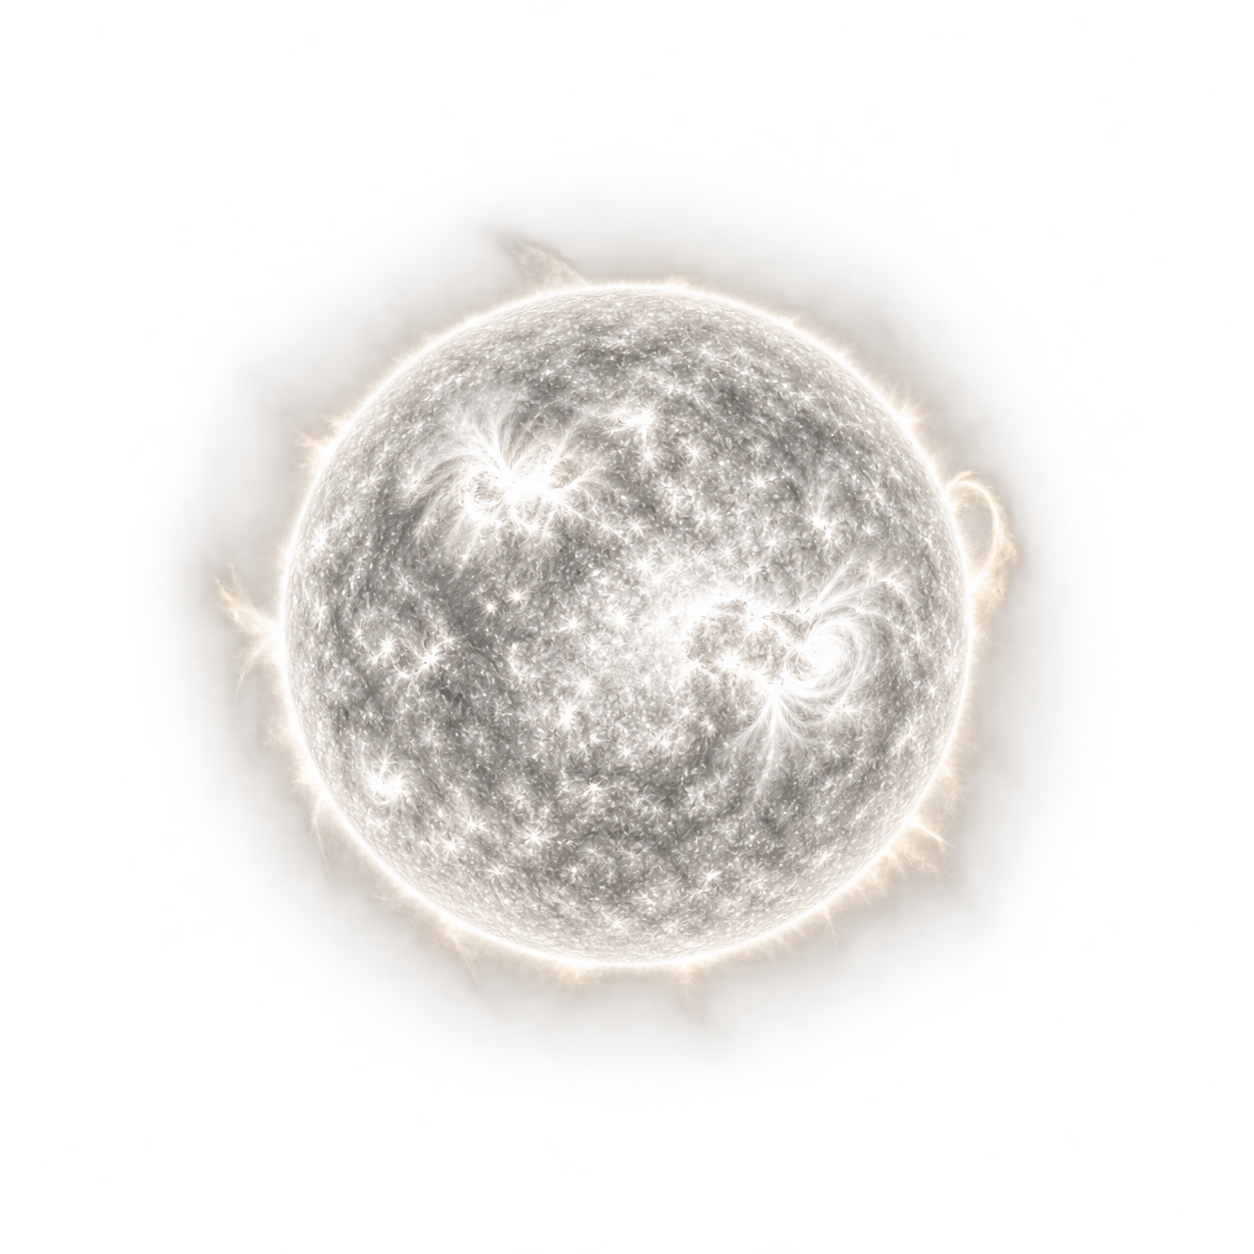
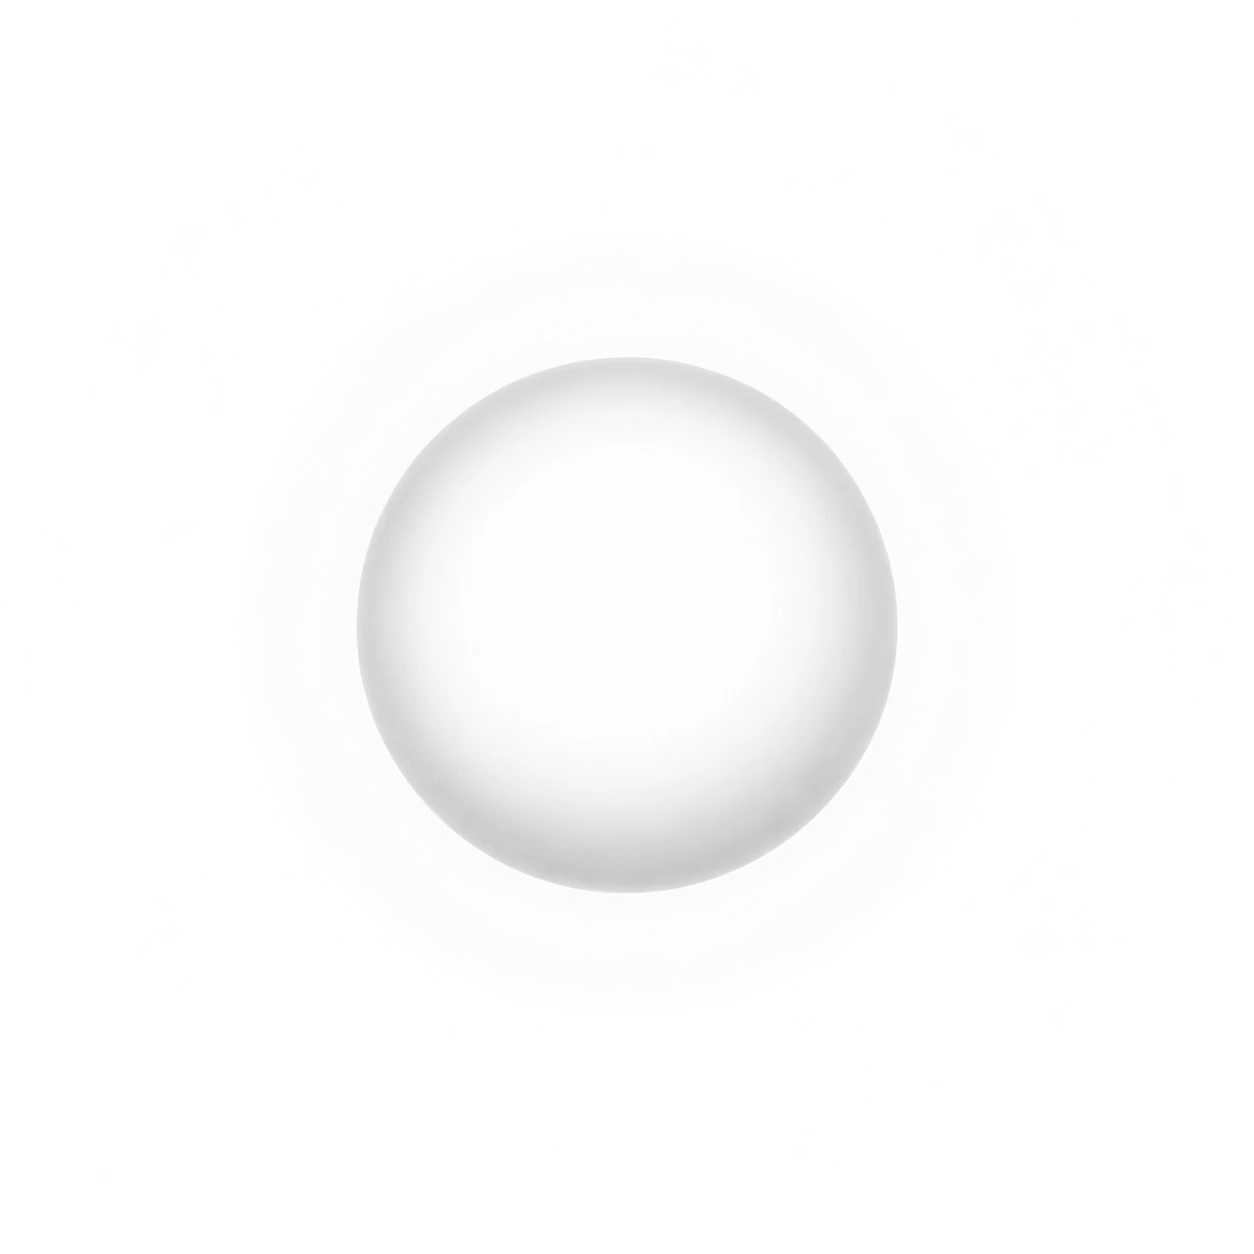
Restore soft black hole artwork and unify celestial designs

Changed region(s): [[0.1244, 0.1866, 0.8397, 0.8397]]

diff --git a/src/ui/logo.ts b/src/ui/logo.ts
@@ -25,8 +25,8 @@
 
 const round = (value: number) => Math.round(value * 1000) / 1000
 
-// 現画像の明るい翼が L と G につながらないよう、O の左右の字間を広げる。
-const SHIFT = 14
+// 旧素材の光の翼が L と G に触れない字間。
+const SHIFT = 2.2
 
 // 字の箱（上の帯・ログイン画面のワードマークは、この箱の高さで置く）
 const BOX = { top: -20.31, bottom: 0.31, width: round(131.67 + 2 * SHIFT) }
@@ -50,11 +50,11 @@ export const HOLE = {
 } as const
 
 /*
-  ほかの天体の表紙と質感をそろえたブラックホールの絵。入口と締めの軌道図の真ん中
+  旧デザインの滑らかな白い光を持つブラックホール（0b42d90 の素材を復元）。入口と締めの軌道図の真ん中
   （components.tsx の Hole）、プロフィールの表紙（CelestialArt）、ロゴの O（HoleArt）が
   同じ1枚を使う。favicon とワードマークの素材も scripts/logo/export.mjs がこの絵から作る。
 
-  外側の光は透過で、中央の黒い影は絵にも入っている。表示側でも影の黒い円を下に敷く——
+  絵は光だけの透過素材で、中央の影は表示側が黒い円を下に敷く——
   絵の濃さを揺らしても、影の後ろの軌道を透かさないため。width / height は透明余白を含む絵の
   画素、lightWidth は可視光（alpha が約2%以上）の横幅、shadow は中央の影の半径（いずれも画素）。
   画像の中央を影の中心として配置し、img と holeArt の寸法には余白を含む width / height を使う。
@@ -65,11 +65,11 @@ export const HOLE = {
   （test/public.test.ts がファイルの寸法と版を突き合わせる）
 */
 export const BLACKHOLE_ART = {
-  src: '/assets/blackhole.webp?v=8c794528',
-  width: 1672,
-  height: 941,
-  lightWidth: 1544,
-  shadow: 184,
+  src: '/assets/blackhole.webp?v=c48dd421',
+  width: 1024,
+  height: 576,
+  lightWidth: 785,
+  shadow: 127,
 } as const
 
 // 影の半径が core になるように置いた絵の箱（中心 (cx, cy) のまわり。字の格子の単位）
@@ -117,8 +117,8 @@ const holeSvg = (cx: number, cy: number, art: string) => {
 const svg = (viewBox: string, body: string) =>
   `<svg xmlns="http://www.w3.org/2000/svg" viewBox="${viewBox}"><title>AstLog</title>${body}</svg>\n`
 
-// 光の見える上下の広がり（影の半径に対して。alpha > 5 の実測上1.62・下1.56に少し余裕を足す）
-const LIGHT_REACH = { up: 1.65, down: 1.6 }
+// 光の見える上下の広がり（影の半径に対して。alpha > 5 の実測上1.898・下1.465）
+const LIGHT_REACH = { up: 1.9, down: 1.5 }
 
 // ワードマークのファイル。暗い地に貼る素材で、枠は光が上下に出るぶん広い
 export const wordmarkSvg = (art: string) => {

diff --git a/test/public.test.ts b/test/public.test.ts
@@ -1381,8 +1381,8 @@ describe('締めのページ（Contact）', () => {
     /*
       黒い円・光の縁・横線の記号を大きく描いていたころは、星雲の中で日食かレンズのフレアに
       見えた（持ち主の「ブラックホールが違和感」）。入口と締めは共通の静的画像
-      （src/ui/logo.ts の BLACKHOLE_ART）を、影の半径が枠の hole になる大きさで置く。絵には黒い影も
-      入っているが、濃さが揺らいでも奥の軌道を透かさないよう黒い円を絵の下に敷く。
+      （src/ui/logo.ts の BLACKHOLE_ART）を、影の半径が枠の hole になる大きさで置く。絵は光だけの透過素材で、
+      濃さが揺らいでも奥の軌道を透かさないよう黒い円を絵の下に敷く。
       ロゴの O も同じ絵にした（持ち主の
       「AstLog の o もブラックホールのデザインに合わせて」）——記号の O が残ると、入口の
       ブラックホールと別のものに見える

diff --git a/src/ui/celestial-art.ts b/src/ui/celestial-art.ts
@@ -2,22 +2,22 @@
 // Keep the SHA-256 URL versions in sync when replacing a static asset.
 export const CELESTIAL_ART = {
   sun: {
-    src: '/assets/celestial-sun-v2.webp?v=23352d9a',
+    src: '/assets/celestial-sun-v2.webp?v=85c08ca7',
     width: 1254,
     height: 1254,
   },
   moon: {
-    src: '/assets/celestial-moon-v2.webp?v=95419a05',
+    src: '/assets/celestial-moon-v2.webp?v=a541a3f0',
     width: 1254,
     height: 1254,
   },
   neptune: {
-    src: '/assets/celestial-neptune-v2.webp?v=fa40f8bb',
+    src: '/assets/celestial-neptune-v2.webp?v=4cfe95a4',
     width: 1254,
     height: 1254,
   },
   saturn: {
-    src: '/assets/celestial-saturn-v2.webp?v=d25892e3',
+    src: '/assets/celestial-saturn-v2.webp?v=394a3e6e',
     width: 1254,
     height: 1254,
   },

diff --git a/scripts/blackhole/render.py b/scripts/blackhole/render.py
@@ -9,7 +9,7 @@
 
 numpy と Pillow が要る。10 コアでどちらも約2分。
 
-配信中の blackhole.webp は image_gen の参照画像から作った透過素材で、このスクリプトでは
+配信中の blackhole.webp は 0b42d90 の旧デザインを復元した透過素材で、このスクリプトでは
 上書きしない。再生成は README.md の「共有ブラックホール素材の更新」を参照。
 
 ## 何を計算しているか

diff --git a/CLAUDE.md b/CLAUDE.md
@@ -331,7 +331,7 @@ Team に戻る。人数は数えて告知しない。
 間を広げる**（散らすと隣と交わる）。天体は画面の上の軌道の長さで黄金角ずつ（奥に詰めない。同じ軌道の次は
 `ROUND_SPREAD` 先）。
 
-**ブラックホールは image_gen の透過素材**（`BLACKHOLE_ART`）。README参照。`hero`は比較用（`dist/`）。
+**ブラックホールは旧デザイン（0b42d90）の透過素材**（`BLACKHOLE_ART`）。ほかの天体も白い光と滑らかな陰影に揃え、写真のような表面模様を抑える。README参照。`hero`は比較用（`dist/`）。
 **軌道面は水平で、`ELEVATION`（26°）から透視で見る**（`CAMERA`。手前は広がり奥は
 詰まる。どの距離も同じ大きさでは的か図面に、低い角度ではレコード盤に、半端な傾きは曲がって見えた）。
 奥の半分（`far`）はブラックホールの後ろ、手前（`near`）は前に描く（`orbitHalves`）。
